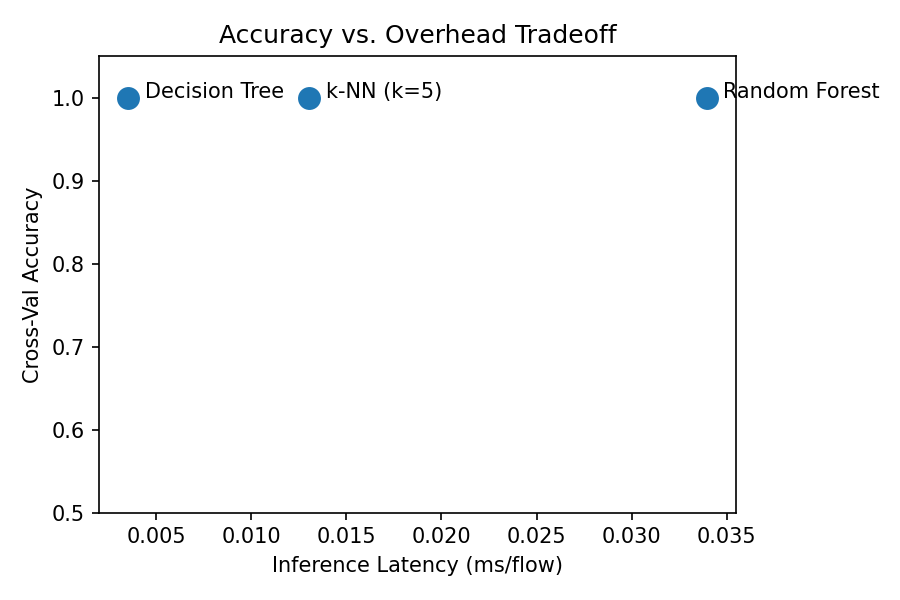
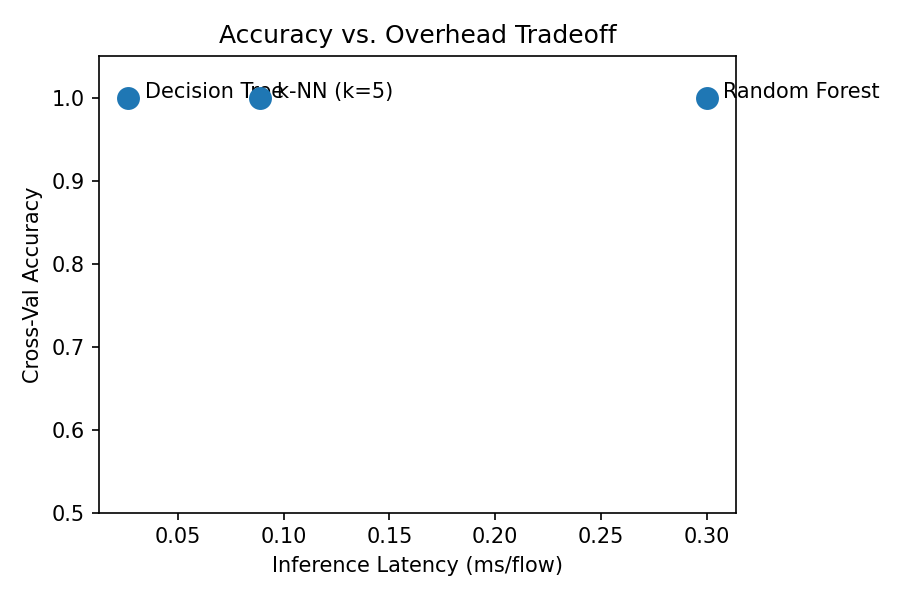
Add real traffic capture, real flow CSV, and updated results

Changed region(s): [[0.2489, 0.87, 0.84, 0.93], [0.28, 0.12, 0.4978, 0.18], [0.1244, 0.87, 0.2178, 0.93]]

diff --git a/ml/capture_flows.py b/ml/capture_flows.py
@@ -1,0 +1,71 @@
+#!/usr/bin/env python3
+import argparse, csv, os, time
+from collections import defaultdict
+from scapy.all import sniff, IP, TCP, UDP, ICMP
+
+def flow_key(pkt):
+    if IP not in pkt:
+        return None
+    proto = pkt[IP].proto
+    src, dst = pkt[IP].src, pkt[IP].dst
+    sport = dport = 0
+    if TCP in pkt: sport, dport = pkt[TCP].sport, pkt[TCP].dport
+    elif UDP in pkt: sport, dport = pkt[UDP].sport, pkt[UDP].dport
+    if (src, sport) > (dst, dport):
+        src, dst, sport, dport = dst, src, dport, sport
+    return (proto, src, sport, dst, dport)
+
+def label_flow(proto, sport, dport):
+    ports = {sport, dport}
+    if proto == 1: return "ICMP"
+    if ports & {80, 443, 8000, 8080}: return "HTTP"
+    if ports & {53}: return "DNS"
+    if ports & {22}: return "SSH"
+    if ports & {5201}: return "IPERF3"
+    return "OTHER"
+
+flows = defaultdict(lambda: {"pkts": [], "bytes": 0})
+
+def process_packet(pkt):
+    key = flow_key(pkt)
+    if key is None: return
+    flows[key]["pkts"].append(time.time())
+    flows[key]["bytes"] += len(pkt)
+
+def export(output_path):
+    os.makedirs(os.path.dirname(output_path), exist_ok=True)
+    rows = []
+    for (proto, src, sport, dst, dport), data in flows.items():
+        pkts = data["pkts"]
+        if len(pkts) < 1: continue
+        pkt_count  = len(pkts)
+        byte_count = data["bytes"]
+        duration_ms = (pkts[-1] - pkts[0]) * 1000 if len(pkts) > 1 else 0.0
+        ipts = [(pkts[i+1] - pkts[i]) * 1000 for i in range(len(pkts)-1)]
+        avg_ipt_ms = sum(ipts) / len(ipts) if ipts else 0.0
+        rows.append({
+            "protocol": proto, "src_port": sport, "dst_port": dport,
+            "pkt_count": pkt_count, "byte_count": byte_count,
+            "duration_ms": round(duration_ms, 3),
+            "avg_ipt_ms": round(avg_ipt_ms, 3),
+            "label": label_flow(proto, sport, dport),
+        })
+    fieldnames = ["protocol","src_port","dst_port","pkt_count","byte_count","duration_ms","avg_ipt_ms","label"]
+    with open(output_path, "w", newline="") as f:
+        w = csv.DictWriter(f, fieldnames=fieldnames)
+        w.writeheader(); w.writerows(rows)
+    print(f"\nSaved {len(rows)} flows to {output_path}")
+    from collections import Counter
+    for lbl, cnt in sorted(Counter(r["label"] for r in rows).items()):
+        print(f"  {lbl:10s}: {cnt} flows")
+
+if __name__ == "__main__":
+    parser = argparse.ArgumentParser()
+    parser.add_argument("--duration", type=int, default=30)
+    parser.add_argument("--iface", type=str, default="lo")
+    parser.add_argument("--output", type=str, default="ml/data/real_flows.csv")
+    args = parser.parse_args()
+    print(f"Capturing on {args.iface} for {args.duration}s ...")
+    print("Run your traffic scripts now!\n")
+    sniff(iface=args.iface, filter="ip", prn=process_packet, timeout=args.duration, store=False)
+    export(args.output)

diff --git a/ml/train.py b/ml/train.py
@@ -11,8 +11,9 @@ from sklearn.metrics import classification_report, confusion_matrix, ConfusionMa
 import time, os
 
 # 1. Load data
-DATA_PATH = 'ml/data/synthetic_flows.csv'
+DATA_PATH = 'ml/data/real_flows.csv'
 df = pd.read_csv(DATA_PATH)
+df = df[df["label"] != "OTHER"]
 
 FEATURES = ['protocol', 'src_port', 'dst_port', 'pkt_count',
             'byte_count', 'duration_ms', 'avg_ipt_ms']
@@ -23,7 +24,7 @@ le = LabelEncoder()
 y_enc = le.fit_transform(y)
 
 X_train, X_test, y_train, y_test = train_test_split(
-    X, y_enc, test_size=0.2, random_state=42, stratify=y_enc)
+    X, y_enc, test_size=0.2, random_state=42)
 
 # 2. Define models
 models = {
@@ -62,7 +63,7 @@ for name, model in models.items():
     print(f"  CV Accuracy:  {cv_scores.mean():.3f} ± {cv_scores.std():.3f}")
     print(f"  Train time:   {train_time:.3f}s")
     print(f"  Infer time:   {infer_time:.4f} ms/flow")
-    print(classification_report(y_test, y_pred, target_names=le.classes_))
+    print(classification_report(y_test, y_pred, ))
 
 # 4. Confusion matrices
 fig, axes = plt.subplots(1, len(models), figsize=(16, 4))
